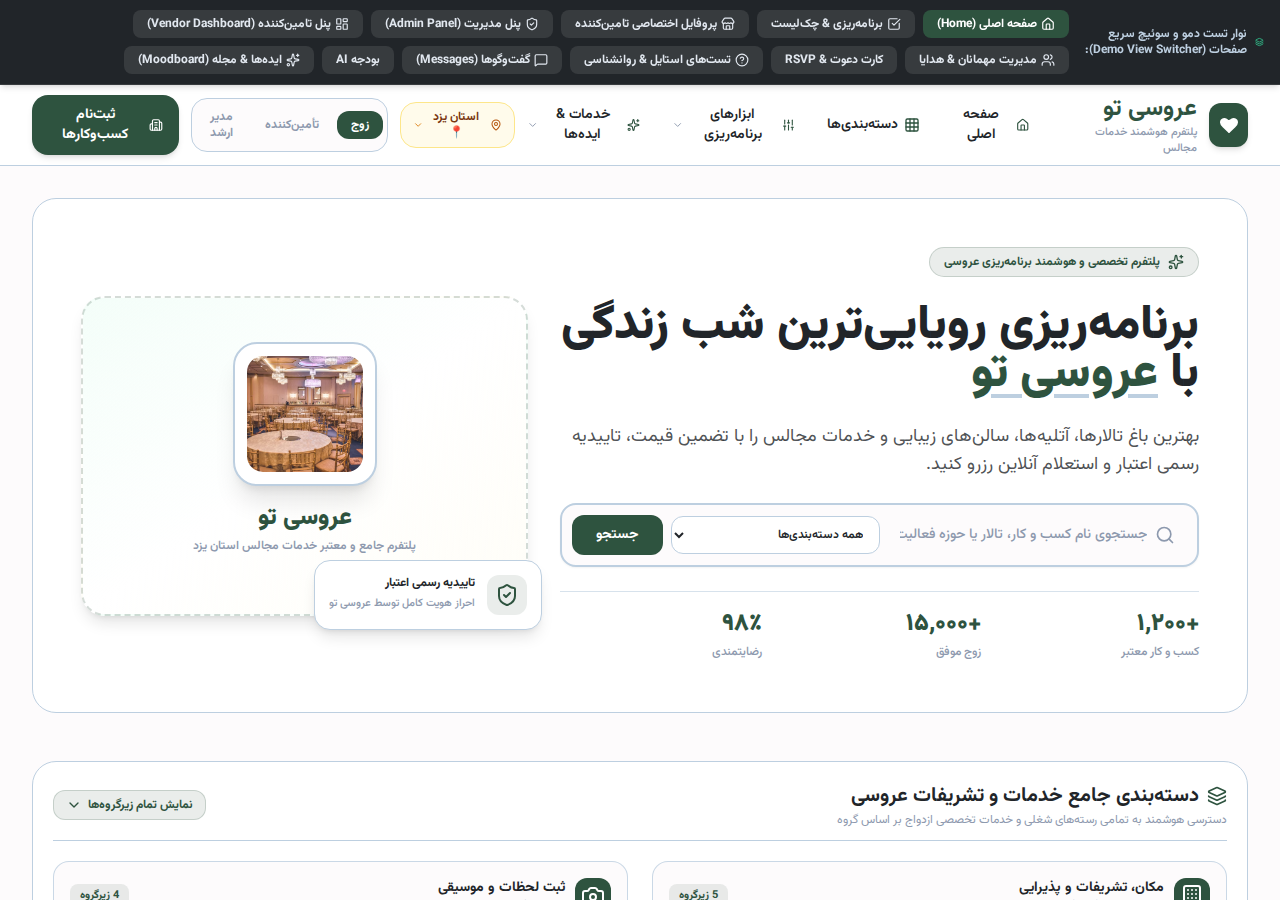
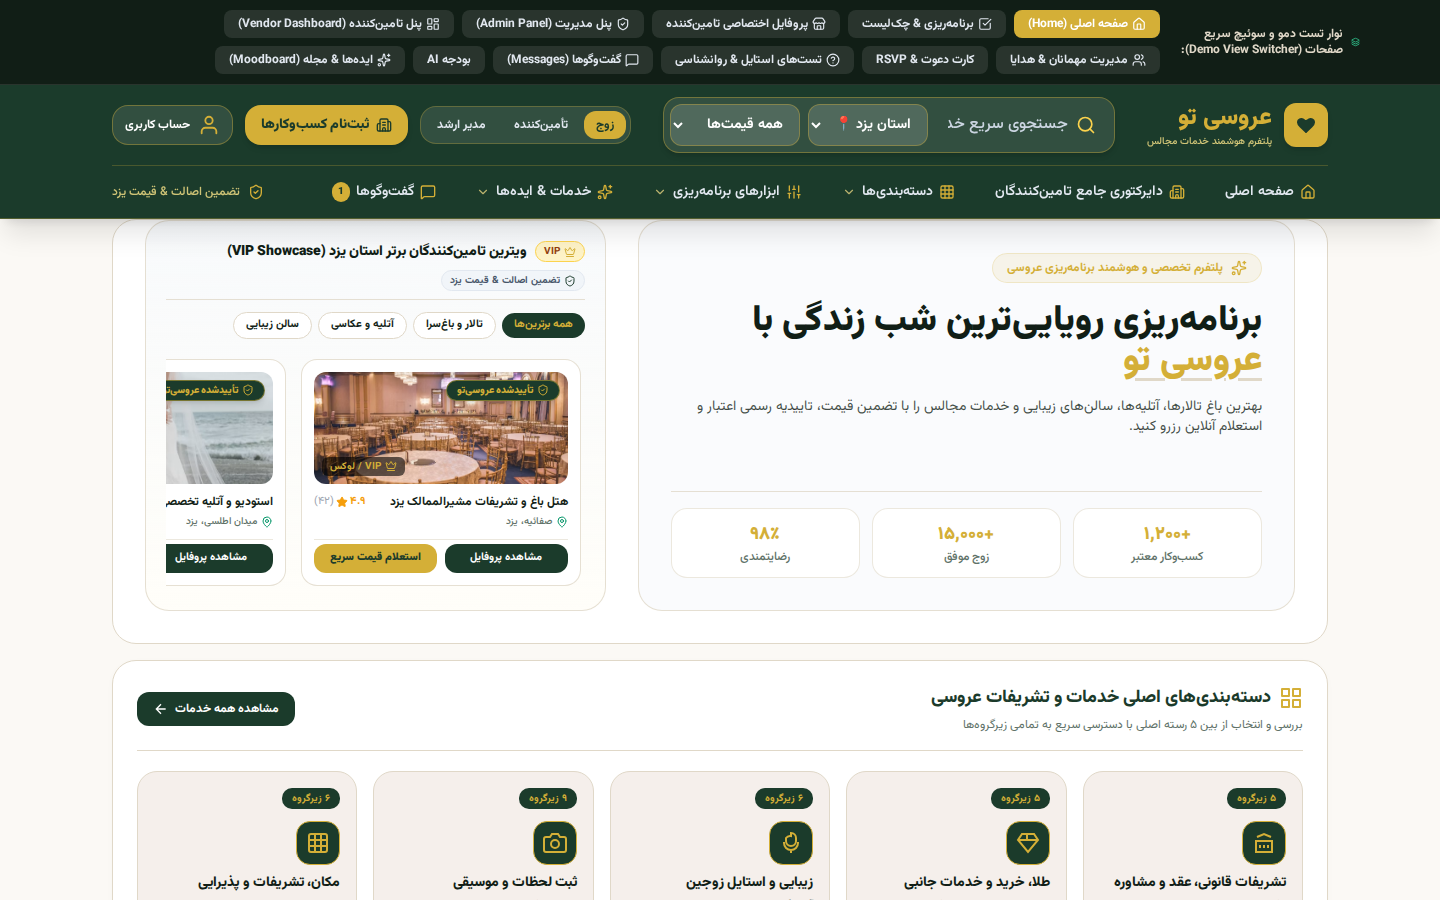
refactor: remove hero section search bar while preserving header search bar

diff --git a/script.js b/script.js
@@ -23,44 +23,6 @@ const HOME_VIEW_HTML = `<!-- HOMEPAGE CONTENT MODULE (home-view.html) -->
                 بهترین باغ تالارها، آتلیهها، سالنهای زیبایی و خدمات مجالس را با تضمین قیمت، تاییدیه رسمی اعتبار و استعلام آنلاین رزرو کنید.
               </p>
 
-              <!-- HERO SMART SEARCH BAR CONTAINER -->
-              <div class="bg-white border border-[#D4AF37]/60 rounded-2xl p-2.5 sm:p-3.5 shadow-lg space-y-2.5 mt-4">
-                <div class="grid grid-cols-1 sm:grid-cols-12 gap-2 items-center">
-                  <!-- Input -->
-                  <div class="sm:col-span-5 relative flex items-center">
-                    <i data-lucide="search" class="w-4 h-4 text-secondary absolute right-3 pointer-events-none"></i>
-                    <input id="hero-search-input" type="text" placeholder="مثلاً: نام تالار، آتلیه، سالن زیبایی..." onkeydown="if(event.key==='Enter') handleHeroSearch()" class="w-full bg-slate-50 border border-accent/80 rounded-xl pr-9 pl-3 py-2.5 text-xs font-medium text-graphite placeholder-slate-400 focus:outline-none focus:border-[#D4AF37] focus:bg-white transition-all">
-                  </div>
-                  <!-- City Dropdown -->
-                  <div class="sm:col-span-3">
-                    <select id="hero-city-select" class="w-full bg-slate-50 border border-accent/80 rounded-xl px-2.5 py-2.5 text-xs font-bold text-graphite focus:outline-none focus:border-[#D4AF37] cursor-pointer">
-                      <option value="استان یزد" selected>همه مناطق یزد</option>
-                      <option value="صفائیه">صفائیه</option>
-                      <option value="بافت تاریخی">بافت تاریخی</option>
-                      <option value="میبد">میبد</option>
-                      <option value="اردکان">اردکان</option>
-                      <option value="تفت">تفت</option>
-                    </select>
-                  </div>
-                  <!-- Category Dropdown -->
-                  <div class="sm:col-span-4">
-                    <select id="hero-cat-select" class="w-full bg-slate-50 border border-accent/80 rounded-xl px-2.5 py-2.5 text-xs font-bold text-graphite focus:outline-none focus:border-[#D4AF37] cursor-pointer">
-                      <option value="all" selected>همه دستهبندیها</option>
-                      <option value="تالار و باغ تالار عروسی">تالار و باغ تالار عروسی</option>
-                      <option value="آتلیه عکاسی و فیلمبرداری">آتلیه عکاسی و فیلمبرداری</option>
-                      <option value="سالن زیبایی و آرایشگاه عروس">سالن زیبایی و آرایشگاه عروس</option>
-                      <option value="مزون لباس عروس">مزون لباس عروس</option>
-                      <option value="کترینگ و تشریفات پذیرایی">کترینگ و تشریفات پذیرایی</option>
-                    </select>
-                  </div>
-                </div>
-
-                <!-- Gold Search Button -->
-                <button type="button" onclick="handleHeroSearch()" class="w-full bg-[#D4AF37] hover:bg-amber-400 text-[#1B3B2B] font-black text-xs py-2.5 px-4 rounded-xl shadow-md transition-all flex items-center justify-center gap-2 cursor-pointer transform active:scale-98">
-                  <i data-lucide="search" class="w-4 h-4"></i>
-                  <span>جستجوی سریع 🔍</span>
-                </button>
-              </div>
             </div>
 
             <!-- Stats Bar -->

diff --git a/index.html b/index.html
@@ -449,44 +449,6 @@
                 بهترین باغ تالارها، آتلیهها، سالنهای زیبایی و خدمات مجالس را با تضمین قیمت، تاییدیه رسمی اعتبار و استعلام آنلاین رزرو کنید.
               </p>
 
-              <!-- HERO SMART SEARCH BAR CONTAINER -->
-              <div class="bg-white border border-[#D4AF37]/60 rounded-2xl p-2.5 sm:p-3.5 shadow-lg space-y-2.5 mt-4">
-                <div class="grid grid-cols-1 sm:grid-cols-12 gap-2 items-center">
-                  <!-- Input -->
-                  <div class="sm:col-span-5 relative flex items-center">
-                    <i data-lucide="search" class="w-4 h-4 text-secondary absolute right-3 pointer-events-none"></i>
-                    <input id="hero-search-input" type="text" placeholder="مثلاً: نام تالار، آتلیه، سالن زیبایی..." onkeydown="if(event.key==='Enter') handleHeroSearch()" class="w-full bg-slate-50 border border-accent/80 rounded-xl pr-9 pl-3 py-2.5 text-xs font-medium text-graphite placeholder-slate-400 focus:outline-none focus:border-[#D4AF37] focus:bg-white transition-all">
-                  </div>
-                  <!-- City Dropdown -->
-                  <div class="sm:col-span-3">
-                    <select id="hero-city-select" class="w-full bg-slate-50 border border-accent/80 rounded-xl px-2.5 py-2.5 text-xs font-bold text-graphite focus:outline-none focus:border-[#D4AF37] cursor-pointer">
-                      <option value="استان یزد" selected>همه مناطق یزد</option>
-                      <option value="صفائیه">صفائیه</option>
-                      <option value="بافت تاریخی">بافت تاریخی</option>
-                      <option value="میبد">میبد</option>
-                      <option value="اردکان">اردکان</option>
-                      <option value="تفت">تفت</option>
-                    </select>
-                  </div>
-                  <!-- Category Dropdown -->
-                  <div class="sm:col-span-4">
-                    <select id="hero-cat-select" class="w-full bg-slate-50 border border-accent/80 rounded-xl px-2.5 py-2.5 text-xs font-bold text-graphite focus:outline-none focus:border-[#D4AF37] cursor-pointer">
-                      <option value="all" selected>همه دستهبندیها</option>
-                      <option value="تالار و باغ تالار عروسی">تالار و باغ تالار عروسی</option>
-                      <option value="آتلیه عکاسی و فیلمبرداری">آتلیه عکاسی و فیلمبرداری</option>
-                      <option value="سالن زیبایی و آرایشگاه عروس">سالن زیبایی و آرایشگاه عروس</option>
-                      <option value="مزون لباس عروس">مزون لباس عروس</option>
-                      <option value="کترینگ و تشریفات پذیرایی">کترینگ و تشریفات پذیرایی</option>
-                    </select>
-                  </div>
-                </div>
-
-                <!-- Gold Search Button -->
-                <button type="button" onclick="handleHeroSearch()" class="w-full bg-[#D4AF37] hover:bg-amber-400 text-[#1B3B2B] font-black text-xs py-2.5 px-4 rounded-xl shadow-md transition-all flex items-center justify-center gap-2 cursor-pointer transform active:scale-98">
-                  <i data-lucide="search" class="w-4 h-4"></i>
-                  <span>جستجوی سریع 🔍</span>
-                </button>
-              </div>
             </div>
 
             <!-- Stats Bar -->

diff --git a/home-view.html b/home-view.html
@@ -22,44 +22,6 @@
                 بهترین باغ تالارها، آتلیهها، سالنهای زیبایی و خدمات مجالس را با تضمین قیمت، تاییدیه رسمی اعتبار و استعلام آنلاین رزرو کنید.
               </p>
 
-              <!-- HERO SMART SEARCH BAR CONTAINER -->
-              <div class="bg-white border border-[#D4AF37]/60 rounded-2xl p-2.5 sm:p-3.5 shadow-lg space-y-2.5 mt-4">
-                <div class="grid grid-cols-1 sm:grid-cols-12 gap-2 items-center">
-                  <!-- Input -->
-                  <div class="sm:col-span-5 relative flex items-center">
-                    <i data-lucide="search" class="w-4 h-4 text-secondary absolute right-3 pointer-events-none"></i>
-                    <input id="hero-search-input" type="text" placeholder="مثلاً: نام تالار، آتلیه، سالن زیبایی..." onkeydown="if(event.key==='Enter') handleHeroSearch()" class="w-full bg-slate-50 border border-accent/80 rounded-xl pr-9 pl-3 py-2.5 text-xs font-medium text-graphite placeholder-slate-400 focus:outline-none focus:border-[#D4AF37] focus:bg-white transition-all">
-                  </div>
-                  <!-- City Dropdown -->
-                  <div class="sm:col-span-3">
-                    <select id="hero-city-select" class="w-full bg-slate-50 border border-accent/80 rounded-xl px-2.5 py-2.5 text-xs font-bold text-graphite focus:outline-none focus:border-[#D4AF37] cursor-pointer">
-                      <option value="استان یزد" selected>همه مناطق یزد</option>
-                      <option value="صفائیه">صفائیه</option>
-                      <option value="بافت تاریخی">بافت تاریخی</option>
-                      <option value="میبد">میبد</option>
-                      <option value="اردکان">اردکان</option>
-                      <option value="تفت">تفت</option>
-                    </select>
-                  </div>
-                  <!-- Category Dropdown -->
-                  <div class="sm:col-span-4">
-                    <select id="hero-cat-select" class="w-full bg-slate-50 border border-accent/80 rounded-xl px-2.5 py-2.5 text-xs font-bold text-graphite focus:outline-none focus:border-[#D4AF37] cursor-pointer">
-                      <option value="all" selected>همه دستهبندیها</option>
-                      <option value="تالار و باغ تالار عروسی">تالار و باغ تالار عروسی</option>
-                      <option value="آتلیه عکاسی و فیلمبرداری">آتلیه عکاسی و فیلمبرداری</option>
-                      <option value="سالن زیبایی و آرایشگاه عروس">سالن زیبایی و آرایشگاه عروس</option>
-                      <option value="مزون لباس عروس">مزون لباس عروس</option>
-                      <option value="کترینگ و تشریفات پذیرایی">کترینگ و تشریفات پذیرایی</option>
-                    </select>
-                  </div>
-                </div>
-
-                <!-- Gold Search Button -->
-                <button type="button" onclick="handleHeroSearch()" class="w-full bg-[#D4AF37] hover:bg-amber-400 text-[#1B3B2B] font-black text-xs py-2.5 px-4 rounded-xl shadow-md transition-all flex items-center justify-center gap-2 cursor-pointer transform active:scale-98">
-                  <i data-lucide="search" class="w-4 h-4"></i>
-                  <span>جستجوی سریع 🔍</span>
-                </button>
-              </div>
             </div>
 
             <!-- Stats Bar -->
